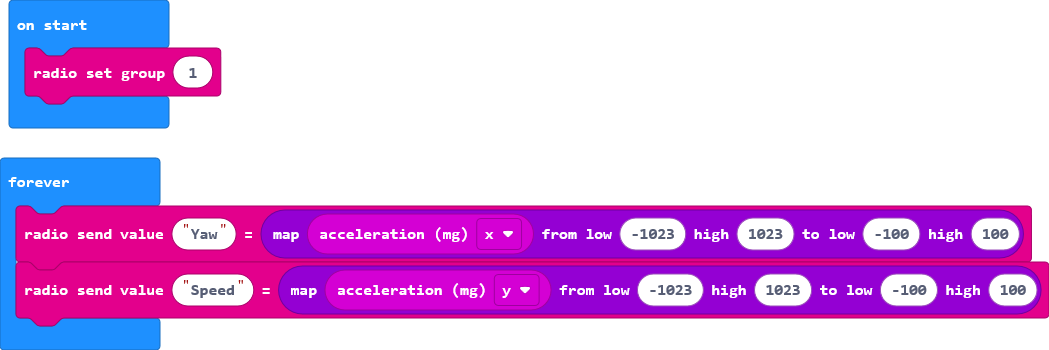
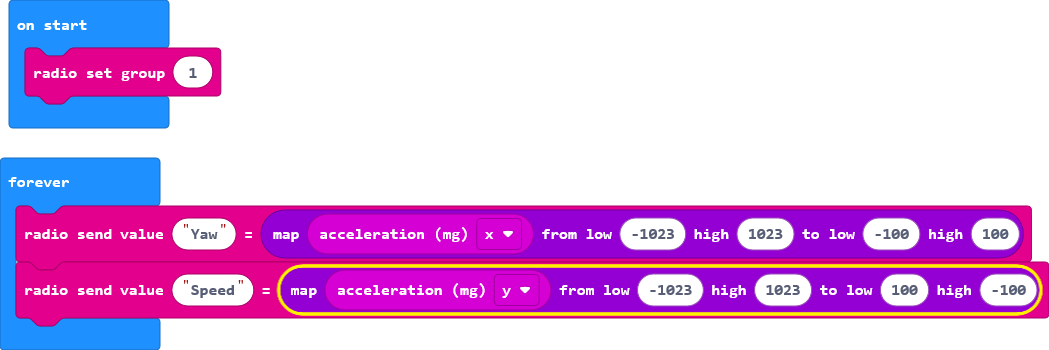
Update main.blocks, main.ts

Changed region(s): [[0.2745, 0.7429, 1.0, 0.9143], [0.244, 0.7714, 0.2745, 0.8857]]

diff --git a/main.ts b/main.ts
@@ -1,5 +1,5 @@
 radio.setGroup(1)
 basic.forever(function () {
     radio.sendValue("Yaw", Math.map(input.acceleration(Dimension.X), -1023, 1023, -100, 100))
-    radio.sendValue("Speed", Math.map(input.acceleration(Dimension.Y), -1023, 1023, -100, 100))
+    radio.sendValue("Speed", Math.map(input.acceleration(Dimension.Y), -1023, 1023, 100, -100))
 })
